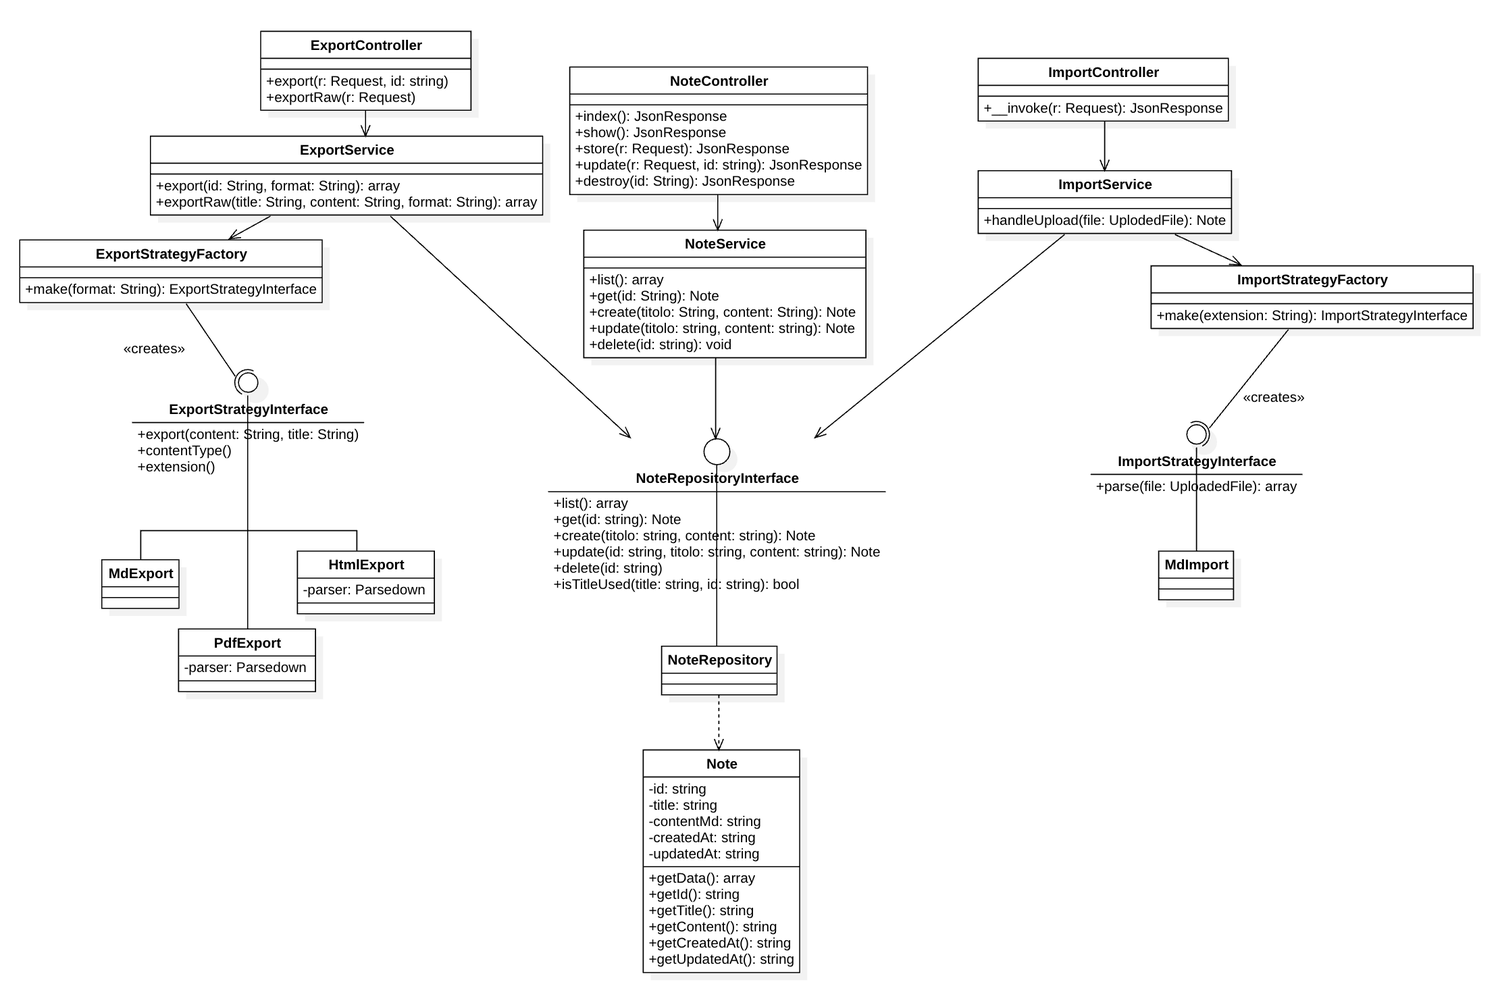
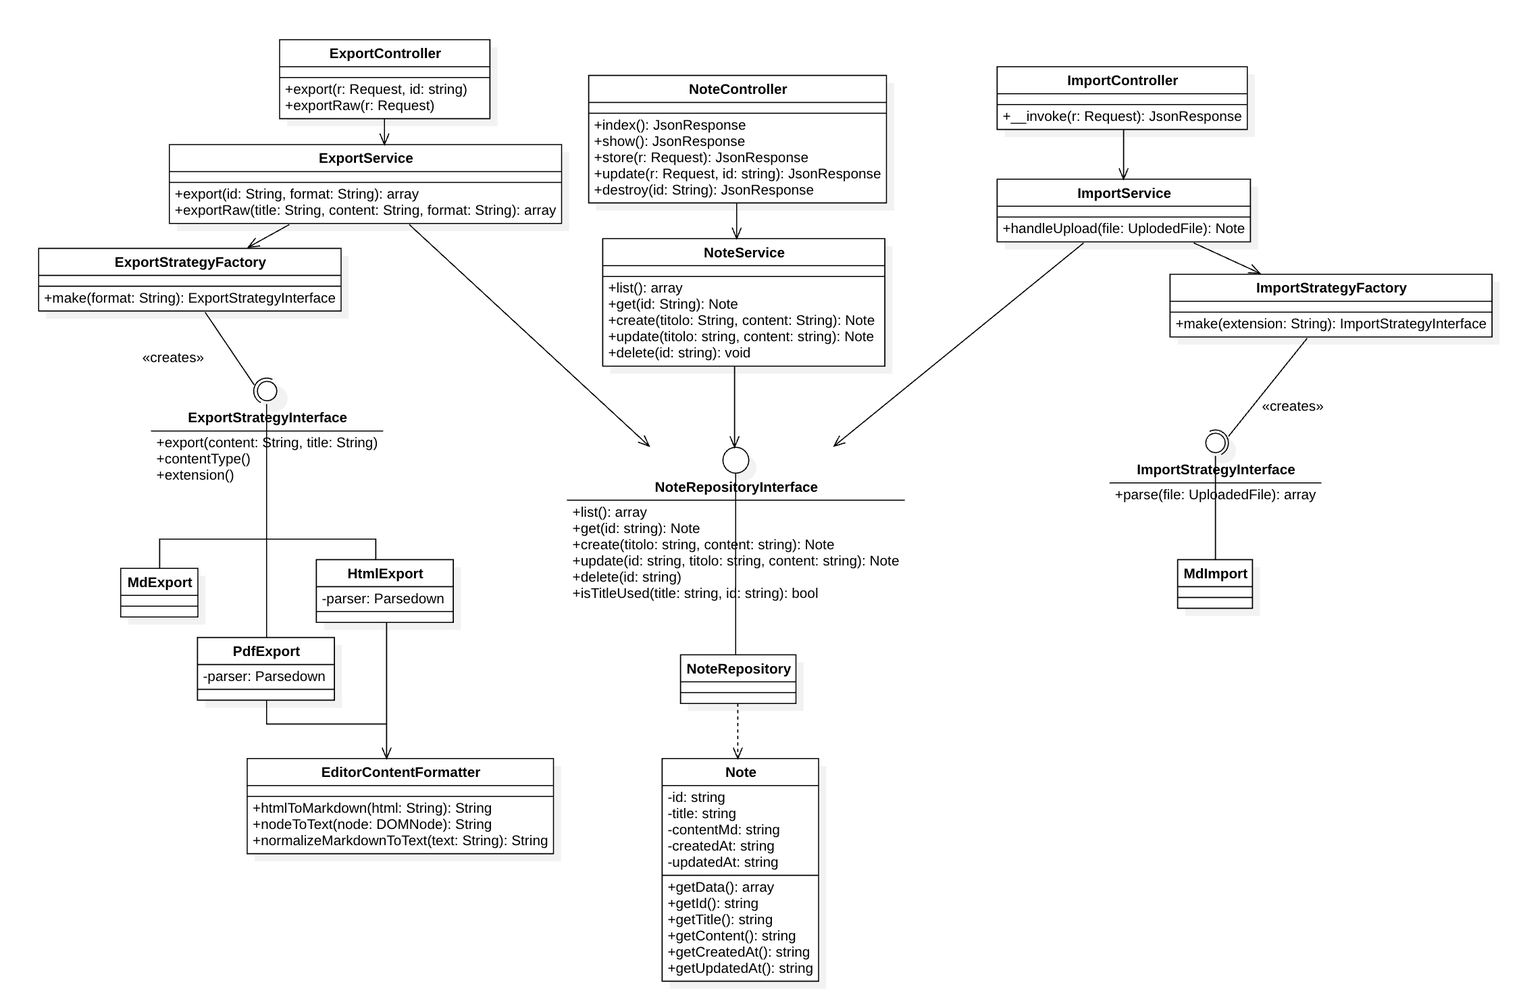
Fix architettura backend + aggiunta requisiti funzionali

diff --git a/PB/latex/Specifica_Tecnica_v0.6.tex b/PB/latex/Specifica_Tecnica_v0.6.tex
@@ -410,6 +410,12 @@ La suddivisione in questi strati facilita lo sviluppo, la manutenzione e la scal
 \subparagraph{MdExport} È l'implementazione concreta di ExportStrategyInterface per l'esportazione nel formato Markdown, è la strategy più semplice del sistema in quanto il contenuto delle note è già nativamente in formato Markdown, quindi non richiede alcuna trasformazione. Per la descrizione della firma e del contratto di ciascun metodo si rimanda alla sezione dedicata all'interfaccia.
 \subparagraph{HtmlExport} È l'implementazione concreta di ExportStrategyInterface per l'esportazione nel formato HTML. Utilizza la libreria Parsedown per convertire il contenuto Markdown della nota in markup HTML, che viene poi incorporato in un documento HTML completo e ben formato. Per la descrizione della firma e del contratto di ciascun metodo si rimanda alla sezione dedicata all'interfaccia.
 \subparagraph{PdfExport} È l'implementazione concreta di ExportStrategyInterface per l'esportazione nel formato PDF. Prima delega al parser la trasformazione del Markdown in HTML, poi utilizza la libreria \texttt{barryvdh/laravel-domppdf} per convertire l'HTML in un documento PDF binario. Per la descrizione della firma e del contratto di ciascun metodo si rimanda alla sezione dedicata all'interfaccia.
+\subparagraph{EditorContentFormatter} Utility dedicata alla conversione di contenuti HTML generati da editor testuali in testo normalizzato in formato Markdown, ha l'obiettivo di eliminare elementi nascosti o metadati che utilizziamo nell'editor per la visualizzazione di blocchi in seguito alla generazione di testo con LLM. Segue la descrizione dei metodi:
+\begin{itemize}
+    \item \texttt{htmlToMarkdown(string \$html) : string} - riceve in input una stringa contenente HTML e restituisce una versione testuale normalizzata del contenuto
+    \item \texttt{nodeToText(DOMNode \$node) : string} - metodo ricorsivo utilizzato per convertire i nodi del DOM in contenuto testuale
+    \item \texttt{normalizeMarkdownText(string \$text) : string} - metodo di normalizzazione finale del testo estratto
+\end{itemize}
 
 \paragraph{Interazione con LLM}
 \vspace{0.5em}
@@ -496,17 +502,169 @@ Nonostante l'adozione di un'architettura monolitica dal punto di vista applicati
 
 \newpage
 
+\newcounter{RF@O}
+\newcounter{RF@D}
+\newcounter{RF@OP}
+
+\newcounter{reqTotal}
+
+\newcommand{\reqF}[2]{%
+    \refstepcounter{RF@#1}%
+    \stepcounter{reqTotal}%
+    \noindent{RF-#1-\arabic{RF@#1}}\quad #2\par
+}
+
+
 \section{Stato dei requisiti funzionali}
-\begin{center}
-    \begin{longtable}{|>{\centering\arraybackslash}m{2.5cm}|>{\centering\arraybackslash}m{8cm}|>{\centering\arraybackslash}m{2.5cm}|}
-        \hline
-        \textbf{Requisito} & \textbf{Descrizione} & \textbf{Rispettato} \\ \hline
-        \endfirsthead
-        \hline
-        RF-O-1 & Il sistema deve permettere all’utente di visualizzare l’archivio delle note presenti e per ogni nota il suo nome, la data di creazione e la data dell’ultima modifica & NO \\ \hline
-        \caption{}
-    \end{longtable}
-\end{center}
+    
+    \begin{longtable}{|l|p{8cm}|p{3.5cm}|}
+            \hline
+            \textbf{Requisito} & \textbf{Descrizione} & \textbf{Rispettato} \\ \hline
+            \endfirsthead
+            \hline
+            \reqF{O} & Il sistema deve permettere all'utente di visualizzare l'archivio delle note presenti e per ogni nota il suo nome, la data di creazione e la data dell'ultima modifica & NO \\ \hline
+            \reqF{O} & Il sistema deve permettere all'utente di aprire una nota & NO \\ \hline
+            \reqF{O} & Il sistema deve permettere all'utente di uscire da una nota & NO \\ \hline
+            \reqF{O} & Il sistema deve permettere all'utente di creare una nuova nota & NO \\ \hline
+            \reqF{O} & Il sistema deve permettere all'utente di salvare la nota su cui sta lavorando & NO \\ \hline
+            \reqF{O} & Il sistema deve permettere all'utente di salvare una nota non ancora presente nell'archivio per la prima volta & NO \\ \hline
+            \reqF{O} & Il sistema deve permettere all'utente di clonare una nota & NO \\ \hline
+            \reqF{O} & Alla clonazione di una nota, il sistema deve assegnare automaticamente un nome di default (es. "Nota \textit{data-ora}") che l’utente può modificare & NO \\ \hline
+            \reqF{O} & Il nome di default generato nella clonazione di una nota deve essere univoco all'interno dell'archivio e facilmente riconoscibile all'utente & NO \\ \hline
+            \reqF{O} & Il sistema deve permettere all'utente di ricercare le note per nome nell'archivio & NO \\ \hline
+            \reqF{O} & Il sistema deve permettere all'utente di eliminare una nota & NO \\ \hline
+            \reqF{O} & Il sistema deve permettere all'utente di rinominare una nota & NO \\ \hline
+            \reqF{O} & Il sistema deve permettere all'utente di esportare una nota aperta & NO \\ \hline
+            \reqF{O} & Il sistema deve permettere all'utente di esportare una nota direttamente dall'archivio & NO \\ \hline
+            \reqF{O} & L’esportazione deve preservare integralmente il contenuto testuale della nota, senza perdita o alterazione di caratteri & NO \\ \hline
+            \reqF{O} & L’esportazione deve preservare correttamente i caratteri Unicode del testo (es. accenti e simboli), senza sostituzioni o corruzione & NO \\ \hline
+            \reqF{O} & Al termine dell’esportazione, il sistema deve notificare esplicitamente l’errore di esportazione all'utente & NO \\ \hline
+            \reqF{O} & Il sistema deve permettere all'utente di importare una nota & NO \\ \hline
+            \reqF{O} & L’importazione deve preservare integralmente il contenuto testuale della nota, senza perdita o alterazione di caratteri (incl. Unicode) & NO \\ \hline
+            \reqF{O} & In caso di file non valido o corrotto, il sistema deve interrompere l’importazione senza creare note parziali e deve notificare chiaramente l’errore all’utente & NO \\ \hline
+            \reqF{O} & Il sistema deve permettere all’utente di scrivere nell'editor con caratteri Unicode (es. lettere accentate e simboli) & NO \\ \hline
+            \reqF{O} & Il sistema deve compilare la sintassi Markdown  & NO \\ \hline
+            \reqF{O} & Il sistema deve permettere la visualizzazione del documento formattato secondo la sintassi Markdown &  NO \\ \hline
+            \reqF{O} & L'aggiornamento della visualizzazione formattata deve avvenire in un tempo adeguatamente veloce & NO \\ \hline
+            \reqF{O} & Il sistema deve permettere di cambiare modalità di visualizzazione & NO \\ \hline
+            \reqF{O} & Il sistema deve fornire un'area di editing di testo in cui è possibile inserire e modificare del testo per la compilazione Markdown & NO \\ \hline
+            \reqF{O} & Il sistema deve permettere l'applicazione di formattazioni Markdown senza scrivere manualmente la sintassi & NO \\ \hline
+            \reqF{O} & L’editor deve rispondere all’input e alla formattazione dell’utente in modo fluido, senza ritardi percepibili durante la digitazione & NO \\ \hline
+            \reqF{O} & Il sistema deve permettere l'applicazione e la rimozione della formattazione testo grassetto senza scrivere manualmente la sintassi & NO \\ \hline
+            \reqF{O} & Il sistema deve permettere l'applicazione e la rimozione della formattazione testo corsivo senza scrivere manualmente la sintassi & NO \\ \hline
+            \reqF{O} & Il sistema deve permettere l'applicazione e la rimozione della formattazione testo sottolineato senza scrivere manualmente la sintassi & NO \\ \hline
+            \reqF{O} & Il sistema deve consentire l’applicazione e la rimozione della formattazione testo barrato senza richiedere l’inserimento manuale della sintassi & NO \\ \hline
+            \reqF{O} & Il sistema deve consentire l'inserimento e la rimozione di link ipertestuali senza richiedere l'inserimento manuale della sintassi & NO \\ \hline
+            \reqF{O} & L’editor deve rendere i link ipertestuali facilmente riconoscibili (es. evidenziandoli graficamente) e distinguibili dal testo normale & NO \\ \hline
+            \reqF{O} & Il sistema deve consentire l'applicazione e la rimozione della formattazione testo commentato senza richiedere l'inserimento manuale della sintassi & NO \\ \hline
+            \reqF{O} & Il sistema deve consentire l'inserimento di elenchi numerati & NO \\ \hline
+            \reqF{O} & Il sistema deve consentire l'inserimento di elenchi puntati & NO \\ \hline
+            \reqF{O} & Il sistema deve permettere all'utente di annullare l'ultima modifica fatta & NO \\ \hline
+            \reqF{O} & Il sistema deve permettere all'utente di ripristinare la modifica precedentemente annullata & NO \\ \hline
+            \reqF{O} & Il sistema deve permettere all'utente di selezionare porzioni di testo, sia tramite mouse che tastiera & NO \\ \hline
+            \reqF{O} & Il sistema deve permettere all'utente di copiare il testo selezionato & NO \\ \hline
+            \reqF{O} & Il sistema deve permettere all'utente di tagliare il testo selezionato & NO \\ \hline
+            \reqF{O} & L'editor deve poter fare copiare e tagliare all'utente il testo in modo fluido, senza ritardi percepibili & NO \\ \hline
+            \reqF{O} & L'editor deve preservare correttamente il contenuto e la struttura del testo copiato e tagliato, senza perdita o alterazioni di caratteri & NO \\ \hline
+            \reqF{O} & Il sistema deve permettere all'utente di incollare del testo nell'area di testo & NO \\ \hline
+            \reqF{O} & L'editor deve poter fare incollare all'utente il testo in modo fluido, senza ritardi percepibili & NO \\ \hline
+            \reqF{O} & L'editor deve preservare e incollare correttamente il contenuto e la struttura del testo, senza perdita o alterazioni di caratteri & NO \\ \hline
+            \reqF{O} & Il sistema deve permettere all'utente di esportare una nota aperta in MD & NO \\ \hline
+            \reqF{O} & Il sistema deve permettere all'utente di esportare una nota direttamente dall'archivio in MD & NO \\ \hline
+            \reqF{O} & Il sistema deve avvisare l'utente della presenza di una nota con lo stesso nome in seguito al primo salvataggio & NO \\ \hline
+            \reqF{O} & Il sistema deve permettere all'utente di criticare il testo secondo il modello dei "Sei Cappelli" & NO \\ \hline
+            \reqF{O} & Il sistema deve permettere all'utente di criticare il testo con una "Visione Emotiva" (Cappello Rosso) & NO \\ \hline
+            \reqF{O} & Il sistema deve permettere all'utente di criticare il testo con una "Visione Neutra" (Cappello Bianco) & NO \\ \hline
+            \reqF{O} & Il sistema deve permettere all'utente di criticare il testo con una "Visione Ottimista" (Cappello Giallo) & NO \\ \hline
+            \reqF{O} & Il sistema deve permettere all'utente di criticare il testo con una "Visione dell'avvocato del Diavolo" (Cappello Nero) & NO \\ \hline
+            \reqF{O} & Il sistema deve permettere all'utente di criticare il testo con una "Visione Originale" (Cappello Verde) & NO \\ \hline
+            \reqF{O} & Il sistema deve permettere all'utente di criticare il testo con una "Visione Logica e Strutturata" (Cappello Blu) & NO \\ \hline
+            \reqF{O} & Il sistema deve permettere all'utente di riassumere del testo tramite un agente esterno & NO \\ \hline
+            \reqF{O} & Il sistema deve permettere all'utente di riscrivere del testo tramite un agente esterno & NO \\ \hline
+            \reqF{O} & Il sistema deve permettere all'utente di scegliere il modo in cui verrà riscritto il testo (correzione grammaticale, estensione del testo, miglioramento del lessico, variazione stilistica) & NO   \\ \hline
+            \reqF{O} & Il sistema deve permettere all'utente di tradurre del testo tramite un agente esterno & NO \\ \hline
+            \reqF{O} & Il sistema deve permettere l'invio da parte dell'utente di un prompt a un agente esterno per la generazione di testo (Distant Writing) & NO \\ \hline
+            \reqF{O} & Il sistema deve permettere all'utente di sostituire nell'editor il testo originale con quello generate dall'agente esterno (riassunto, riscrittura, traduzione) & NO \\ \hline
+            \reqF{O} & Il sistema deve permettere all'utente di aggiungere nell'editor, in seguito alla selezione del testo originale, quello generato dall'agente esterno (riassunto, riscrittura, traduzione) & NO \\ \hline
+            \reqF{O} & Il sistema deve permettere all'utente di aggiungere nell'editor, in coda a tutto il testo presente nell'editor, quello generato dall'agente esterno (riassunto, riscrittura, traduzione) & NO \\ \hline
+            \reqF{O} & Il sistema deve permettere all'utente di "rifiutare" il testo generato dall'agente esterno (riassunto, riscrittura, traduzione) & NO \\ \hline
+            \reqF{O} & Il sistema deve permettere all'utente di copiare negli appunti il testo generato dall'agente esterno (riassunti, riscrittura, traduzione, generazione) & NO \\ \hline
+            \reqF{O} & L'agente esterno deve produrre testo grammaticalmente, sintatticamente e semanticamente corretto & NO \\ \hline
+            \reqF{O} & Il sistema deve avvisare l'utente in caso dell'impossibilità nell'eseguire una richiesta & NO  \\ \hline
+            \reqF{O} & Il sistema deve commentare il testo selezionato dall’utente utilizzato per interrogare la generazione (Distant Writing) & NO \\ \hline
+            \reqF{O} & Se l’utente aggiunge una traduzione a una parte del testo selezionato, il sistema deve avvisarlo ogni volta che il testo tradotto viene modificato & NO \\ \hline
+            \reqF{O} & Il sistema deve consentire all’utente di aggiornare una traduzione precedentemente inserita se il testo originale è presente ed è stato modificato & NO \\ \hline
+            \reqF{O} & Il sistema deve consentire all'utente di rimuovere una traduzione precedentemente inserita & NO \\ \hline
+            \reqF{O} & Il sistema deve consentire all'utente di rimuovere il testo originale di una traduzione precedentemente inserita & NO \\ \hline
+            \reqF{O} & Il sistema deve notificare all'utente la perdita del testo originale di riferimento qualora venga eliminato, lasciando la traduzione priva di collegamento & NO \\ \hline
+            \reqF{O} & Il sistema non deve consentire l'inserimento di una traduzione all'interno di una porzione di testo già tradotta & NO \\ \hline
+            \reqF{O} & L'agente deve produrre traduzioni corrette nella lingua selezionata & NO \\ \hline
+            \reqF{O} & Il sistema alla chiusura di una nota, se presenti delle modifiche non salvate deve avvisare l'utente della presenza di modifiche & NO \\ \hline
+            \reqF{O} & Il sistema in caso di problemi di connessione con l'agente esterno deve avvisare l'utente & NO  \\ \hline
+            \reqF{O} & Durante una richiesta alla LLM, il sistema deve fornire all’utente un feedback chiaro sullo stato dell’operazione (es. indicatore di caricamento/elaborazione) fino al completamento o alla segnalazione di errore & NO \\ \hline
+            \reqF{O} & Il feedback sullo stato della comunicazione con la LLM deve essere non bloccante e deve evitare che l’utente avvii richieste duplicate inconsapevolmente & NO\\ \hline
+            \reqF{O} & Il sistema deve permettere all'utente di visualizzare l'editor con il contenuto della nota dopo l'apertura di questa & NO \\ \hline
+            \reqF{O} & Il sistema deve avvisare l'utente in caso di tentativo di apertura di una nota non più esistente & NO \\ \hline
+            \reqF{O} & Il sistema deve avvisare l'utente in caso di fallimento dell'apertura di una nota a causa di problemi di connessione al server & NO \\ \hline
+            \reqF{O} & In caso di tentativo di chiusura di una nota con modifiche non salvate, il sistema deve avvisare l'utente e chiedere se desidera salvare le modifiche prima di chiudere & NO \\ \hline
+            \reqF{O} & Il sistema deve permettere all'utente di salvare le modifiche effettuate all'interno di una nota & NO \\ \hline
+            \reqF{O} & Il sistema deve avvisare l'utente in caso di presenza di una versione più recente della nota aperta nell'archivio & NO \\ \hline
+            \reqF{O} & Il sistema deve permettere all'utente di sovrascrivere la nota presente nell'archivio con la versione aperta in caso di conflitto di versioni & NO \\ \hline
+            \reqF{O} & Il sistema deve permettere all'utente di salvare la nota aperta con un nuovo nome in caso di conflitto con la versione presente nell'archivio & NO \\ \hline
+            \reqF{O} & Il sistema deve permettere all'utente di aggiornare la nota aperta con le modifiche presenti nella versione più recente nell'archivio in caso di conflitto di versioni & NO \\ \hline
+            \reqF{O} & Il sistema deve avvisare l'utente in caso di errori durante il salvataggio della nota causati da problemi di connessione al server & NO \\ \hline
+            \reqF{O} & Il sistema deve avvisare l'utente in caso di tentativo di clonazione di una nota non più esistente & NO \\ \hline
+            \reqF{O} & Il sistema deve avvisare in caso di impossibilità di clonare una nota a causa di problemi di connessione al server & NO \\ \hline
+            \reqF{O} & Il sistema deve chiedere all'utente di confermare l'eliminazione di una nota & NO \\ \hline
+            \reqF{O} & Il sistema deve avvisare l'utente in caso di impossibilità di eliminazione di una nota a causa di problemi di connessione al server & NO \\ \hline
+            \reqF{O} & Il sistema deve impedire all'utente di rinominare una nota con un nome già presente nell'archivio e visualizzare un messaggio di errore & NO \\ \hline
+            \reqF{O} & Il sistema deve avvisare l'utente in caso di impossibilità di rinominare una nota a causa di problemi di connessione al server & NO \\ \hline
+            \reqF{O} & Il sistema deve avvisare l'utente in caso di impossibilità di esportare una nota a causa di problemi di connessione al server & NO \\ \hline
+            \reqF{O} & Il sistema deve dare la possibilità all'utente di importare una nota in formato MD & NO \\ \hline
+            \reqF{O} & Il sistema deve avvisare l'utente in caso di problemi di connessione al server durante l'importazione di una nota & NO \\ \hline
+            \reqF{O} & Il sistema deve permettere all'utente di inserire elementi in un elenco puntato o numerato & NO \\ \hline
+            \reqF{O} & Il sistema deve permettere all'utente di rimuovere elementi da un elenco puntato o numerato & NO \\ \hline
+            \reqF{O} & Il sistema deve avvisare l'utente in caso di problemi di connessione con l'agente esterno durante la ritraduzione di una porzione di testo precedentemente tradotta & NO \\ \hline
+            \reqF{D} & Il sistema deve aggiornare automaticamente i risultati della ricerca ad ogni modifica dell’input di ricerca & NO \\ \hline
+            \reqF{D} & Il sistema deve permettere all'utente di esportare una nota aperta in PDF & NO \\ \hline
+            \reqF{D} & Il sistema deve permettere all'utente di esportare una nota aperta in HTML & NO \\ \hline
+            \reqF{D} & Il sistema deve permettere all'utente di esportare una nota direttamente dall'archivio in PDF & NO \\ \hline
+            \reqF{D} & Il sistema deve permettere all'utente di esportare una nota direttamente dall'archivio in HTML & NO \\ \hline
+            \reqF{D} & Il sistema deve permettere all'utente di utilizzare scorciatoie da tastiera per formattare il testo & NO \\ \hline
+            \reqF{D} & Il sistema deve comunicare all'utente eventuali errori grammaticali nell'editor & NO \\ \hline
+            \reqF{D} & Il sistema deve consentire all’utente di eseguire un minimo di 20 operazioni consecutive di annullamento e di ripristino delle modifiche sull’editor della nota corrente & NO \\ \hline
+            \reqF{D} & In caso di incollaggio di contenuti non testuali, l’editor deve mantenere la reattività e mostrare una notifica non bloccante che spieghi l’azione effettuata (rifiuto o conversione in testo) & NO \\ \hline
+            \reqF{D} & L'archivio deve aggiornarsi dinamicamente con i risultati della ricerca ad ogni modifica dell’input con una risposta percepita come immediata dall’utente &  NO \\ \hline
+            \reqF{D} & L'editor deve evidenziare in modo chiaro e distinguibile la porzione di testo utilizzato come prompt per l'interrogazione del LLM, così da renderla immediatamente riconoscibile all'utente & NO \\ \hline
+            \reqF{D} & L’aggiornamento della visualizzazione formattata non deve bloccare l’input dell’utente durante la digitazione & NO \\ \hline
+            \reqF{OP} & Il sistema deve aggiornare automaticamente la visualizzazione del testo formattato ad ogni modifica del Markdown, senza richiedere un’azione esplicita & NO \\ \hline
+            \reqF{OP} & Il sistema deve comunicare all'utente eventuali errori di sintassi nei marcatori nell'editor & NO \\ \hline
+            \reqF{OP} & L'editor deve permettere all'utente di interagire direttamente con la LLM tramite marcatori & NO \\ \hline
+            \reqF{OP} & Il sistema deve permettere all'utente di registrarsi tramite nome utente e password & NO \\ \hline
+            \reqF{OP} & Se password o nome utente non sono corrette il sistema non deve permettere la registrazione & NO \\ \hline
+            \reqF{OP} & Il sistema deve permettere all'utente di accedere al proprio account & NO \\ \hline
+            \reqF{OP} & Se password o nome utente non sono corrette il sistema non deve permettere l'autenticazione & NO \\ \hline
+            \reqF{OP} & L'utente può effettuare il logout e terminare la sessione & NO \\ \hline
+            \reqF{OP} & Il sistema deve permettere ad un utente autenticato di eliminare il proprio account  & NO \\ \hline
+            \reqF{OP} & Il sistema deve richiedere la password dell'utente per l'eliminazione del suo account  & NO \\ \hline
+            \reqF{OP} & Il sistema deve avvisare l'utente che la password inserita per l'eliminazione dell'account è sbagliata  & NO \\ \hline
+            \reqF{OP} & Il sistema deve richiedere la conferma all'utente per l'eliminazione del suo account  & NO \\ \hline
+            \reqF{OP} & Il sistema deve permettere all'utente autenticato di salvare note nel proprio account & NO \\ \hline
+            \reqF{OP} & Il sistema deve permettere all'utente autenticato di aprire una delle note salvate nel proprio account & NO \\ \hline
+            \reqF{OP} & Il sistema durante il salvataggio, nel caso in cui il DataBase non sia raggiungibile, deve visualizzare un messaggio d'errore & NO \\ \hline
+            \reqF{OP} & Il sistema durante l'apertura di una nota, nel caso in cui il DataBase non sia raggiungibile, deve visualizzare un messaggio d'errore & NO \\ \hline
+            \reqF{OP} & Le credenziali dell'utente devono essere trasmesse in modo sicuro durante l'autenticazione e la registrazione & NO \\ \hline
+            \reqF{OP} & Il sistema deve completare una richiesta di autenticazione e registrazione in un breve lasso di tempo & NO\\ \hline
+            \reqF{OP} & Il sistema non deve memorizzare né mostrare password in chiaro & NO \\ \hline
+            \reqF{OP} & Il sistema deve limitare ad un massimo di 3 tentativi di accesso falliti per ridurre il rischio di attacchi a forza bruta & NO \\ \hline
+            \reqF{OP} & In caso di credenziali errate, il messaggio di errore non deve rivelare se sia il nome utente o la password ad essere errata & NO \\ \hline
+            \reqF{OP} & I messaggi di errore in autenticazione e registrazione devono essere chiari e indicare all’utente come correggere l’input & NO \\ \hline
+            \reqF{OP} & I campi di inserimento credenziali devono fornire feedback immediato su validità del formato (es. vincoli su nome utente/password), senza attendere l’invio del form & NO \\ \hline
+            \reqF{OP} & Dopo l’autenticazione, la sessione deve scadere automaticamente dopo un periodo di inattività pari a 1 mese & NO \\ \hline
+            \reqF{OP} & Il sistema deve avvisare l'utente in caso di mancata registrazione/autenticazione dovuta a problemi di connessione al server & NO \\ \hline
+            \reqF{OP} & Il sistema deve avvisare l'utente in caso di impossibilità di eliminazione dell'account a causa di problemi di connessione al server & NO \\ \hline
+            \caption{Tabella Requisiti Funzionali}
+        \end{longtable}
 
 \end{document}
 
